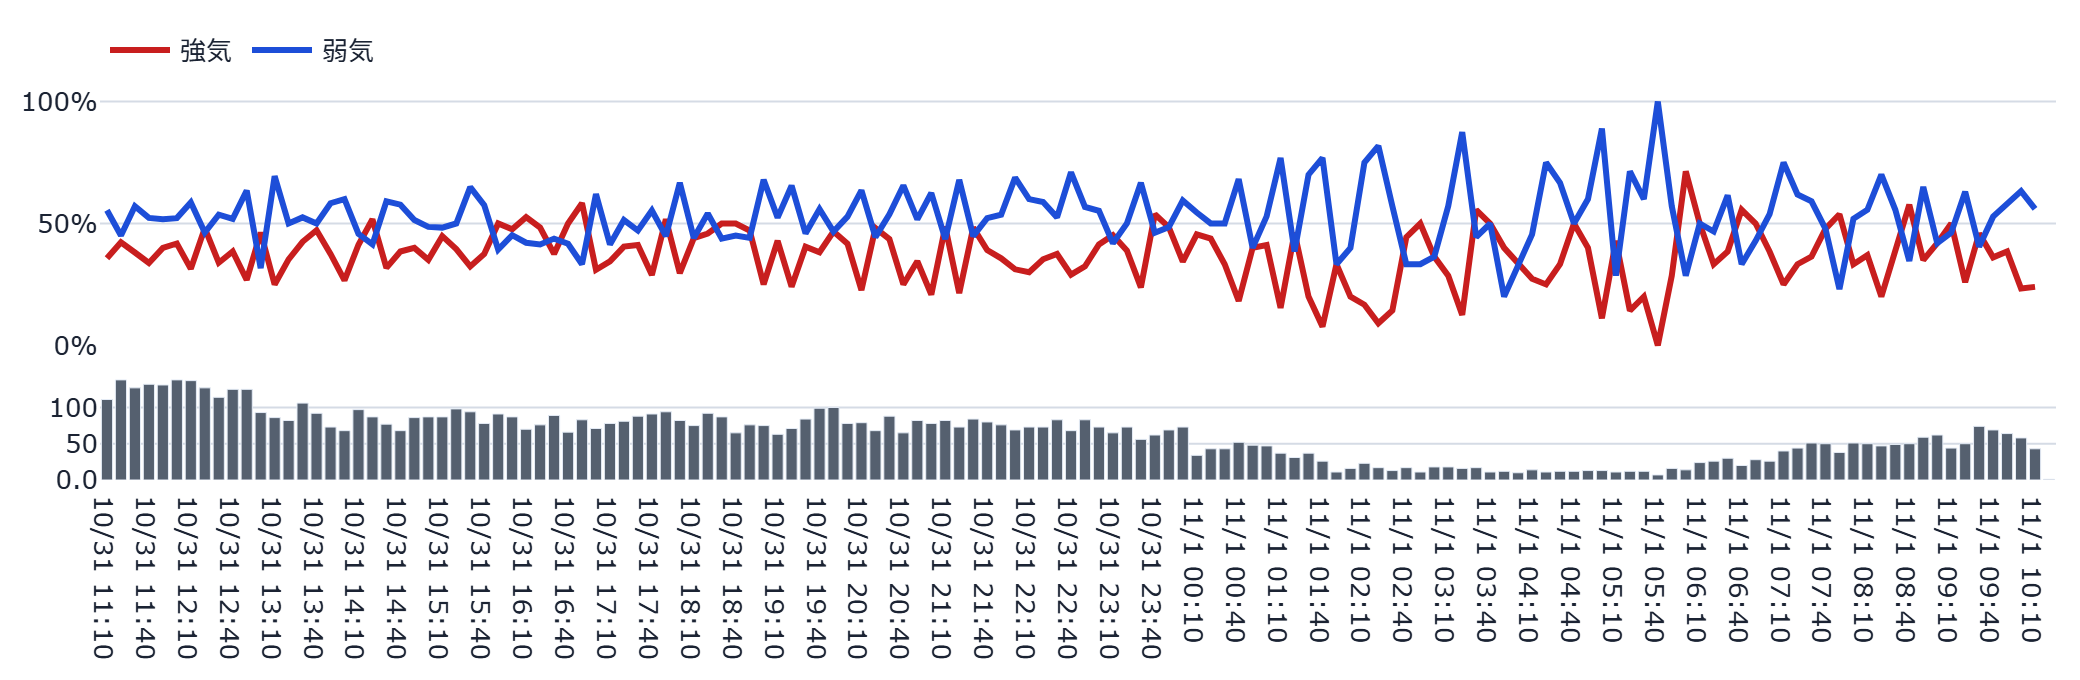
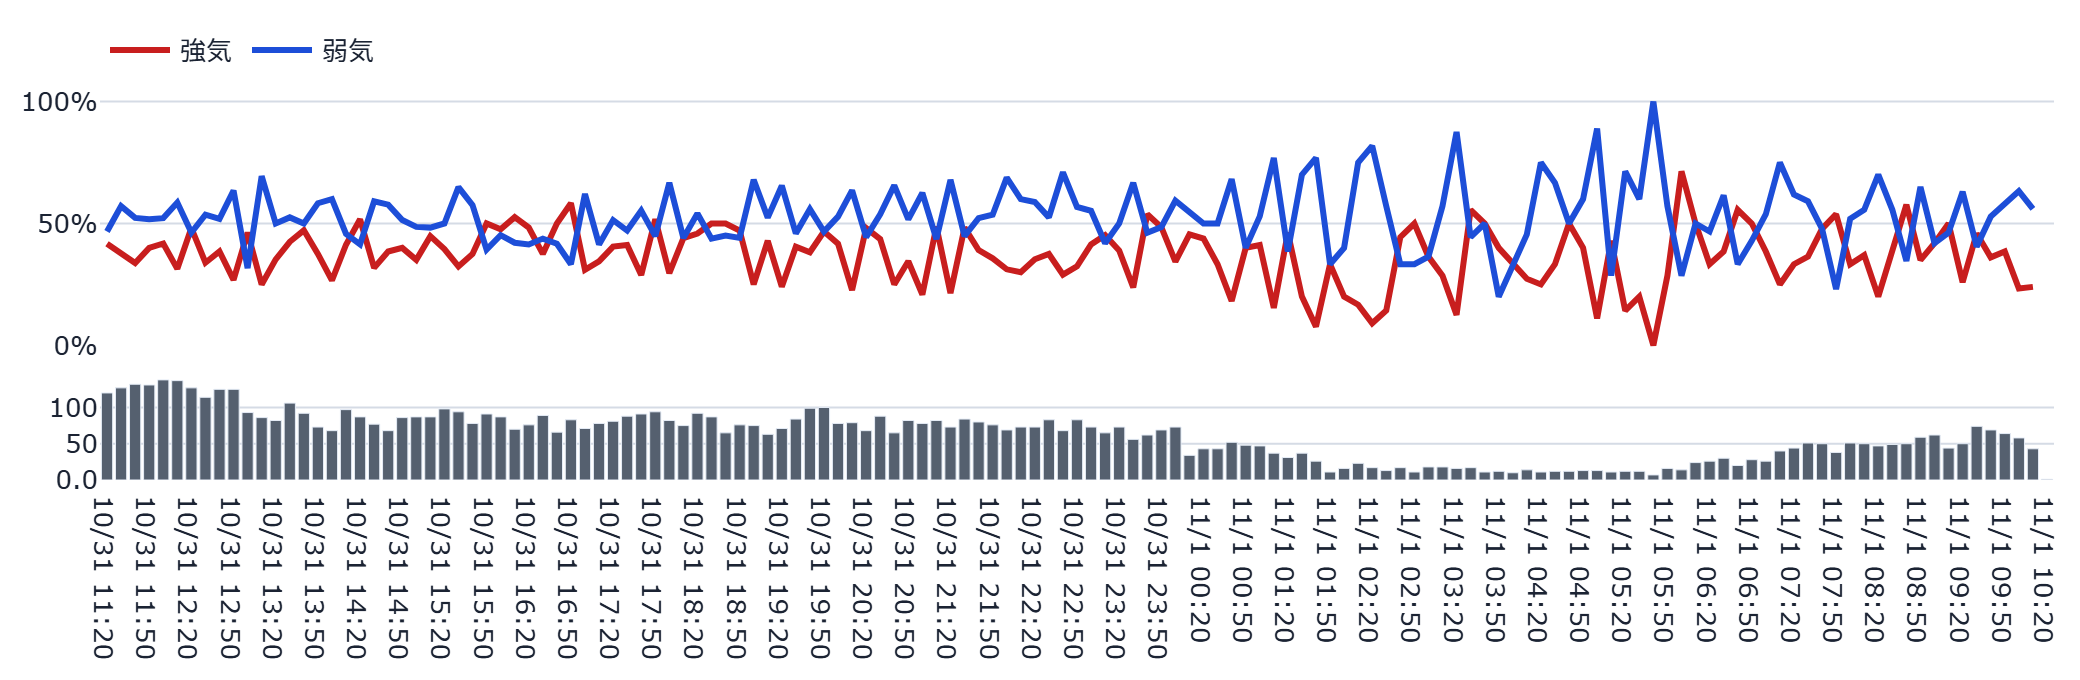
auto: refresh static dashboard (2026-11-01 11:23:04 JST)

Changed region(s): [[0.0312, 0.5559, 1.0, 0.9882], [0.0312, 0.1544, 0.9688, 0.4941]]

diff --git a/docs/index.html b/docs/index.html
@@ -144,7 +144,7 @@
         <span class="price">13,470円</span>
         <span class="chg" style="color:#8B94A3">—</span>
       </div>
-      <p class="caption">更新時刻: 2026-11-01T11:10:53（データは1分間隔で自動生成され、このページも
+      <p class="caption">更新時刻: 2026-11-01T11:20:54（データは1分間隔で自動生成され、このページも
       60秒毎に自動再読み込みされます）</p>
       
       <p id='visit-count-badge' class='caption' style='display:none'></p>
@@ -155,9 +155,9 @@
            常時最上部に表示する。 -->
       <h2>🤖 AI考察</h2>
       <div class='panel' id='ai-schedule'><h3>🗓 AI考察の予定</h3><ul><li>平日の立会日に、寄り前 08:50／寄り直後 09:10／前場引け前 11:30／大引け後 15:45 の4時点で考察を更新します（考察はClaude(AI)が書きます）。</li><li>土日祝などの休場日は考察を書きません。</li><li>時点の間は、数値のみを約10分ごとに更新します（文章は次の時点まで更新されません）。</li><li>次の予定: 11-02 08:50（寄り前）／直近の更新: 10-30 16:38（自動生成）</li></ul></div>
-      <div class='panel' id='numeric-summary'><h3>📊 数値要約｜11:10 更新</h3><ul><li>株価: 13,470円</li><li>掲示板: 強気 35.5%／弱気 54.1%／中立 10.4%・投稿 1,976件（約180件/時）</li><li>シグナル: 発火＝暴落煽り語彙(5.5)・話題枯れ(-1.87)／警戒＝ネームド集中(0.07)／平常＝灼熱メーター(過熱)(5.8)・そう思う大量票(22)・イナゴ語彙(euphoria)(1.7)・他銘柄混入率(0.07)ほか</li><li>変化点: 前回の数値要約から大きな変化なし</li></ul><p class='caption'>強気・弱気は機械判定（辞書＋軽量モデル）の値です。日単位の向きはLM判定と近く（相関0.8台）、時間単位は粗い点に注意してください。</p></div>
+      <div class='panel' id='numeric-summary'><h3>📊 数値要約｜11:20 更新</h3><ul><li>株価: 13,470円</li><li>掲示板: 強気 35.5%／弱気 54.1%／中立 10.4%・投稿 1,976件（約180件/時）</li><li>シグナル: 発火＝暴落煽り語彙(5.5)・話題枯れ(-1.87)／警戒＝ネームド集中(0.07)／平常＝灼熱メーター(過熱)(5.8)・そう思う大量票(22)・イナゴ語彙(euphoria)(1.7)・他銘柄混入率(0.07)ほか</li><li>変化点: 前回の数値要約から大きな変化なし</li></ul><p class='caption'>強気・弱気は機械判定（辞書＋軽量モデル）の値です。日単位の向きはLM判定と近く（相関0.8台）、時間単位は粗い点に注意してください。</p></div>
       
-      <div class='metric-row'><div class='metric-card'><div class='metric-label'>株価</div><div class='metric-value'>13,470円</div><div class='metric-delta'>+0円</div></div><div class='metric-card'><div class='metric-label'>強気比率</div><div class='metric-value'>35.5%</div><div class='metric-delta'>+0.0pt</div></div><div class='metric-card'><div class='metric-label'>弱気比率</div><div class='metric-value'>54.1%</div><div class='metric-delta'>+0.0pt</div></div></div><p class='caption'>前回集計(2026-11-01T11:01:03)との比較</p>
+      <div class='metric-row'><div class='metric-card'><div class='metric-label'>株価</div><div class='metric-value'>13,470円</div><div class='metric-delta'>+0円</div></div><div class='metric-card'><div class='metric-label'>強気比率</div><div class='metric-value'>35.5%</div><div class='metric-delta'>+0.0pt</div></div><div class='metric-card'><div class='metric-label'>弱気比率</div><div class='metric-value'>54.1%</div><div class='metric-delta'>+0.0pt</div></div></div><p class='caption'>前回集計(2026-11-01T11:10:53)との比較</p>
       <div class='ai-box'>※無料公開データを機械的に集計した観測情報であり、投資助言・売買推奨ではありません。（10-30 大引け後の整理・16:37時点）<br>
 <br>
 ■ 本日の285A：寄り天だが戻す（往復）の形で引けた<br>
@@ -283,7 +283,7 @@
 
       <hr style="border:none;border-top:1px solid var(--border);margin:2rem 0 1rem">
       <p class="caption">⚠ 本情報は掲示板投稿を統計的に集計したものであり、投資助言ではありません。個別の投稿内容は含まれていません。研究・エンタメ用途です。</p>
-      <footer>生成: generate_static_dashboard.py（2026-11-01T11:12:50） /
+      <footer>生成: generate_static_dashboard.py（2026-11-01T11:23:02） /
       画像バックエンド: plotly+kaleido</footer>
     </div>
     <script>(function(){var url="https://script.google.com/macros/s/AKfycbwgSSGQ2n56ohmIYKlNDA1Xe3D8hd3GJbD0U90L4DGtXdb8pqrPokNMHJWjvN1__7bE/exec";var KEY='bbs_visit_counted';var already=sessionStorage.getItem(KEY);var action=already?'read':'hit';var ctrl=(typeof AbortController!=='undefined')?new AbortController():null;var timer=ctrl?setTimeout(function(){ctrl.abort();},5000):null;fetch(url+'?action='+action,{signal:ctrl?ctrl.signal:undefined}).then(function(r){if(timer)clearTimeout(timer);return r.json();}).then(function(data){if(!already)sessionStorage.setItem(KEY,'1');if(data&&typeof data.count==='number'){var el=document.getElementById('visit-count-badge');if(el){el.textContent='\u{1F440} \u7d2f\u8a08\u95b2\u89a7\u6570: '+data.count.toLocaleString();el.style.display='';}}}).catch(function(e){if(timer)clearTimeout(timer);console.warn('visit counter fetch failed (fail-soft):',e);});})();</script><script>(function(){var url="https://script.google.com/macros/s/AKfycbwgSSGQ2n56ohmIYKlNDA1Xe3D8hd3GJbD0U90L4DGtXdb8pqrPokNMHJWjvN1__7bE/exec";var KEY='bbs_liked';var btn=document.getElementById('like-button');var label=document.getElementById('like-count-label');if(!btn||!label)return;function renderLiked(count){btn.disabled=true;btn.style.cursor='default';btn.style.opacity='0.6';btn.textContent='\u2705';label.textContent="\u3044\u3044\u306d\u3057\u307e\u3057\u305f\uff01"+(typeof count==='number'?"\uff08\u7d2f\u8a08 "+count.toLocaleString()+" \u3044\u3044\u306d\uff09":'');}if(localStorage.getItem(KEY)){renderLiked(null);}btn.addEventListener('click',function(){if(localStorage.getItem(KEY))return;btn.disabled=true;var ctrl=(typeof AbortController!=='undefined')?new AbortController():null;var timer=ctrl?setTimeout(function(){ctrl.abort();},5000):null;fetch(url+'?action=like_hit',{signal:ctrl?ctrl.signal:undefined}).then(function(r){if(timer)clearTimeout(timer);return r.json();}).then(function(data){localStorage.setItem(KEY,'1');renderLiked(data&&typeof data.count==='number'?data.count:null);}).catch(function(e){if(timer)clearTimeout(timer);btn.disabled=false;console.warn('like button fetch failed (fail-soft):',e);});});})();</script><script>(function(){var DEFAULT_TAB='overview';function activate(tabName){var buttons=document.querySelectorAll('.tab-bar .tab-btn');var panels=document.querySelectorAll('[data-tab-panel]');if(!buttons.length||!panels.length)return;var matched=false;panels.forEach(function(p){var on=p.getAttribute('data-tab-panel')===tabName;if(on)matched=true;p.classList.toggle('tab-hidden',!on);});if(!matched){panels.forEach(function(p){p.classList.toggle('tab-hidden',p.getAttribute('data-tab-panel')!==DEFAULT_TAB);});tabName=DEFAULT_TAB;}buttons.forEach(function(b){var on=b.getAttribute('data-tab')===tabName;b.classList.toggle('active',on);b.setAttribute('aria-selected',on?'true':'false');});}document.addEventListener('DOMContentLoaded',function(){var bar=document.getElementById('tabBar');if(!bar)return;bar.addEventListener('click',function(e){var btn=e.target.closest('.tab-btn');if(!btn)return;activate(btn.getAttribute('data-tab'));});activate(DEFAULT_TAB);});})();</script></body></html>
